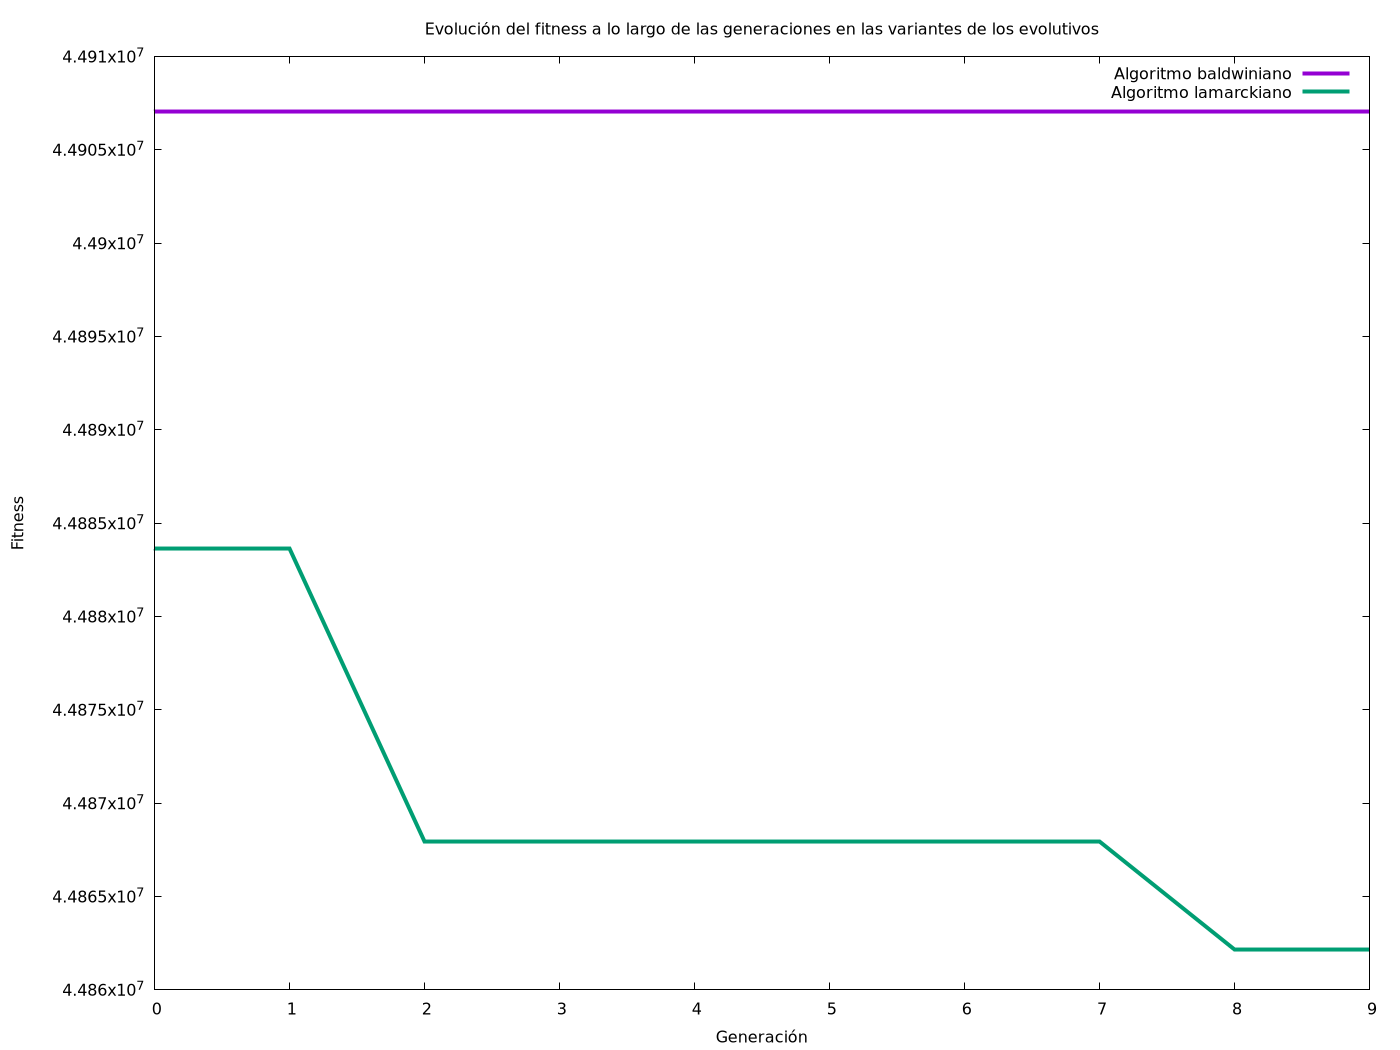
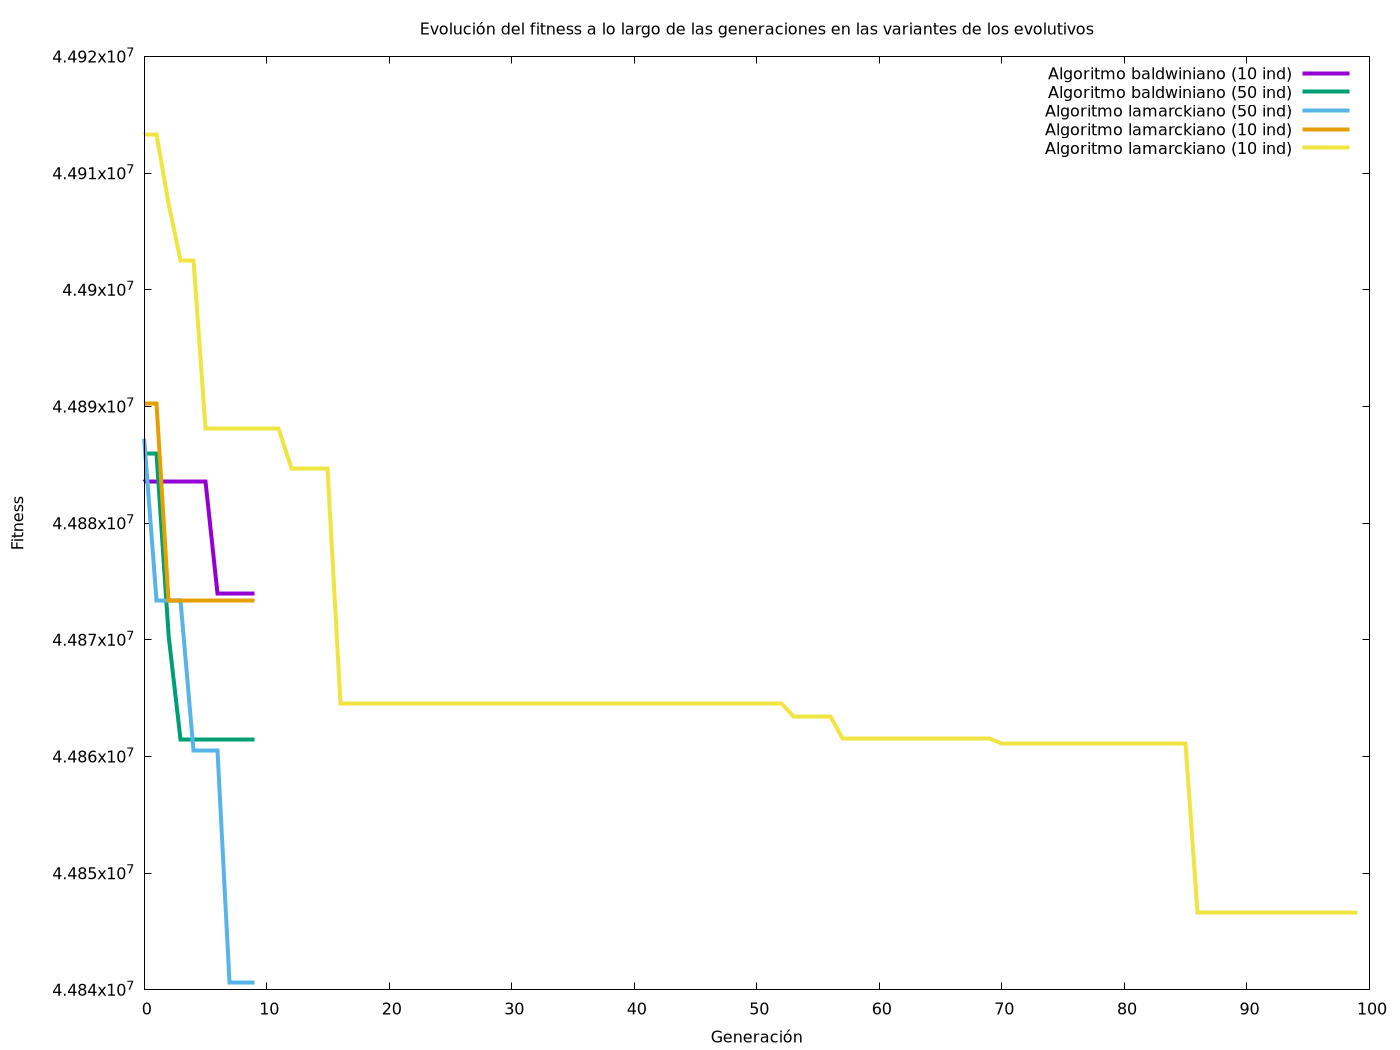
Fin de la practica

diff --git a/QAP/evolutionaryAlgorithm.go b/QAP/evolutionaryAlgorithm.go
@@ -57,8 +57,6 @@ func NewEvolutionaryAlgorithm(data string, individuals, generations int) (*evolu
 func NewPopulation(individuals, generations, solSize int) *Population {
 	p := &Population{make([]*Individual, 0), generations, 0, nil}
 
-	// Crear vector con valores del 1 al n y hacerle shuffle
-
 	for i := 0; i < individuals; i++ {
 		var ind *Individual = NewIndividual(solSize)
 		ind.NeedFitness = true

diff --git a/QAP/main.go b/QAP/main.go
@@ -20,7 +20,7 @@ func fitnessDifference(c int) float32 {
 }
 
 func main() {
-	data := "chr12c.dat"
+	data := "tai256c.dat"
 	var alg, individuals, generations int
 
 	if len(os.Args) != 4 {
